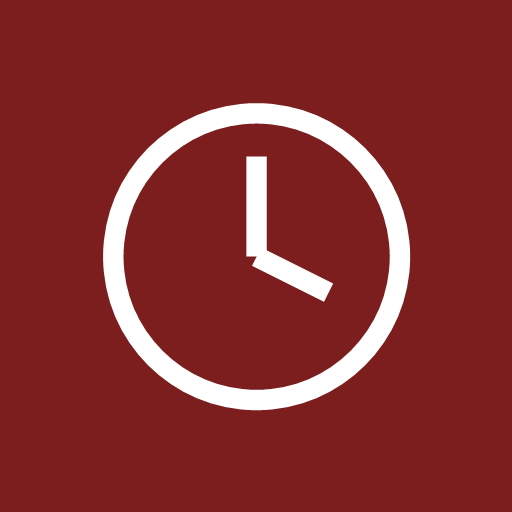
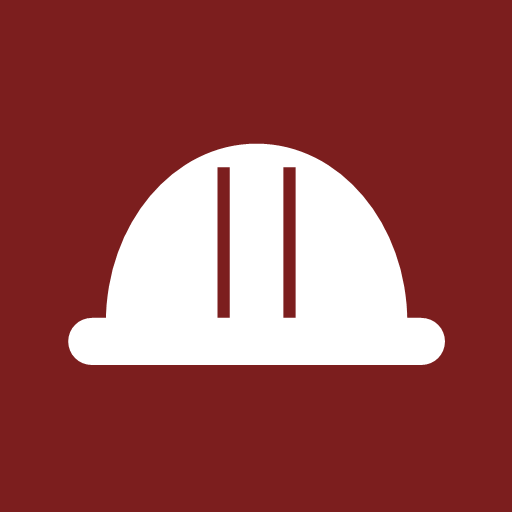
Add files via upload

Changed region(s): [[0.125, 0.1875, 0.875, 0.8125]]

diff --git a/index.html b/index.html
@@ -6,7 +6,11 @@
 <meta name="theme-color" content="#7C1E1E">
 <link rel="manifest" href="manifest.json">
 <link rel="icon" href="icon-192.png">
-<title>Stunden</title>
+<link rel="apple-touch-icon" href="apple-touch-icon.png">
+<meta name="apple-mobile-web-app-capable" content="yes">
+<meta name="mobile-web-app-capable" content="yes">
+<meta name="apple-mobile-web-app-title" content="WorkingHours">
+<title>WorkingHours</title>
 <style>
   @font-face { font-family: 'Montserrat'; src: url('Montserrat-Variable.ttf') format('truetype'); font-weight: 100 900; font-style: normal; font-display: swap; }
   /* Farben nach der Farbskala: Bordeaux, Anthrazit, Grautöne; Altrosa, Pastellblau und Safran als Akzente */
@@ -58,13 +62,18 @@
   .nav button { padding: 0; font-size: 22px; }
   /* Eingabemaske: kompakt, damit sie ohne Scrollen auf einen Bildschirm passt */
   h1 { margin: 2px 0 8px; }
-  .raster { display: grid; grid-template-columns: 1fr 1fr; gap: 8px 10px; margin-bottom: 8px; }
+  .raster { display: grid; grid-template-columns: minmax(0, 1fr) minmax(0, 1fr); gap: 8px 12px; margin-bottom: 8px; }
+  .raster.eins { grid-template-columns: minmax(0, 1fr); }
+  .raster input, .raster select { min-width: 0; max-width: 100%; -webkit-appearance: none; appearance: none; }
+  .raster input[type=date] { display: block; text-align: left; }
+  .raster select { background-image: linear-gradient(45deg, transparent 50%, var(--mute) 50%), linear-gradient(135deg, var(--mute) 50%, transparent 50%); background-position: calc(100% - 20px) 50%, calc(100% - 14px) 50%; background-size: 6px 6px; background-repeat: no-repeat; padding-right: 36px; }
   .raster > div { min-width: 0; }
   #seite-eingabe label { margin-bottom: 3px; }
   #seite-eingabe input, #seite-eingabe select { height: 46px; }
   #seite-eingabe .zwei { gap: 6px; }
   #seite-eingabe .zwei button { min-height: 46px; padding: 0 4px; font-size: 13px; }
-  #tagHinweis { min-height: 14px; margin: 0 0 8px; }
+  #tagHinweis { margin: 0 0 8px; }
+  #tagHinweis:empty { display: none; }
   .mit-jetzt { position: relative; }
   .mit-jetzt input { padding-right: 62px; }
   .mit-jetzt button { position: absolute; right: 5px; top: 5px; min-height: 0; height: 36px; width: 52px; padding: 0; font-size: 11px; background: var(--grau); border: 0; }
@@ -101,14 +110,14 @@
 </style>
 </head>
 <body>
-<h1>Stundenerfassung</h1>
+<h1>WorkingHours</h1>
 <div class="tabs" role="tablist">
   <button type="button" class="tab" id="tab-eingabe" role="tab" data-seite="eingabe" aria-selected="true">Eingabe</button>
   <button type="button" class="tab" id="tab-dashboard" role="tab" data-seite="dashboard" aria-selected="false">Dashboard</button>
 </div>
 
 <main id="seite-eingabe" class="seite">
-<div class="raster">
+<div class="raster eins">
   <div>
     <label for="datum">Datum</label>
     <input type="date" id="datum">

diff --git a/sw.js b/sw.js
@@ -1,6 +1,6 @@
 'use strict';
-const CACHE = 'stunden-v8';
-const DATEIEN = ['./', 'index.html', 'app.js', 'manifest.json', 'icon-192.png', 'icon-512.png', 'Montserrat-Variable.ttf'];
+const CACHE = 'stunden-v10';
+const DATEIEN = ['./', 'index.html', 'app.js', 'manifest.json', 'icon-192.png', 'icon-512.png', 'apple-touch-icon.png', 'Montserrat-Variable.ttf'];
 
 self.addEventListener('install', (e) => {
   e.waitUntil(caches.open(CACHE).then((c) => c.addAll(DATEIEN)).then(() => self.skipWaiting()));

diff --git a/app.js b/app.js
@@ -483,7 +483,7 @@ async function exportieren() {
   const datei = new File([csvErzeugen()], `Stunden-${heute()}.csv`, { type: 'text/csv' });
   try {
     if (navigator.canShare && navigator.canShare({ files: [datei] })) {
-      await navigator.share({ files: [datei], title: 'Stundenerfassung' });
+      await navigator.share({ files: [datei], title: 'WorkingHours' });
       return meldung('ok', 'CSV geteilt.');
     }
     const a = document.createElement('a');

diff --git a/README.md b/README.md
@@ -1,4 +1,4 @@
-# Stundenerfassung
+# WorkingHours
 
 Eine einfache mobile Web-App (PWA) zum Erfassen von Arbeitszeiten. Sie läuft komplett im Browser des Smartphones. Alle Einträge werden nur lokal auf dem Gerät gespeichert. Es gibt keinen Server, kein Benutzerkonto und keine Verbindung zu Excel oder zu Cloud-Diensten.
 
@@ -69,7 +69,7 @@ Beim Import überschreiben Einträge mit gleichem Datum die vorhandenen. Eine fe
 | `app.js` | Logik, Speicherung, Berechnung, Import und Export |
 | `sw.js` | Service Worker für den Offline-Betrieb |
 | `manifest.json` | App-Beschreibung für die Installation |
-| `icon-192.png`, `icon-512.png` | App-Symbole |
+| `icon-192.png`, `icon-512.png`, `apple-touch-icon.png` | App-Symbol (Bauhelm) |
 | `Montserrat-Variable.ttf`, `Montserrat-OFL.txt` | Schrift Montserrat (SIL Open Font License) |
 
 ## Aktualisieren
